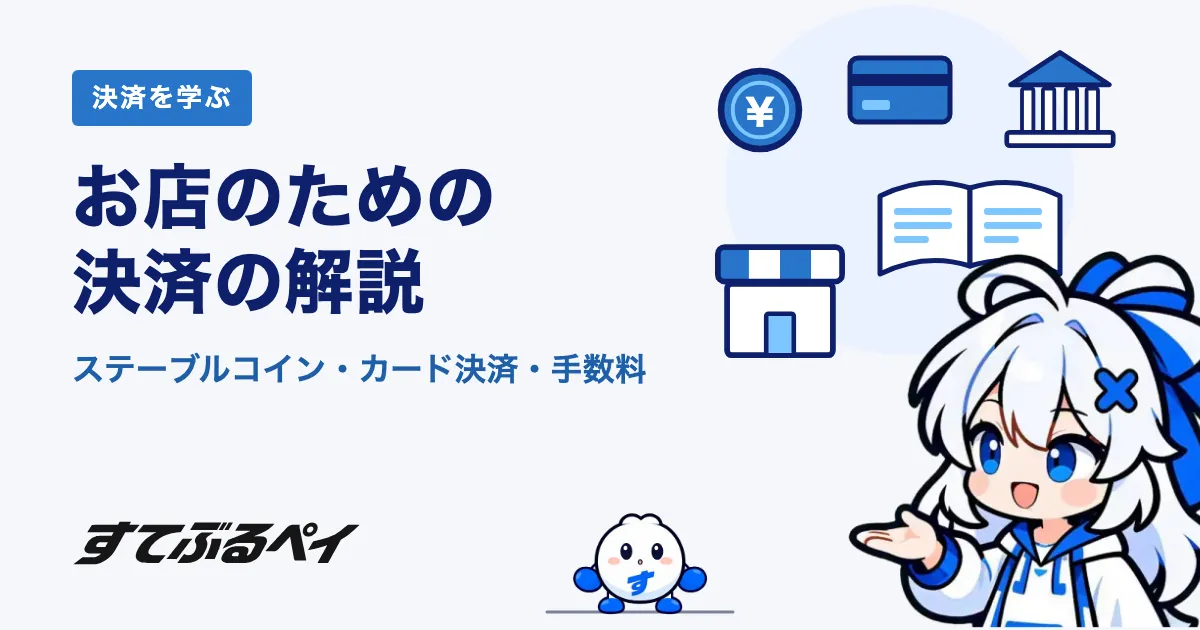
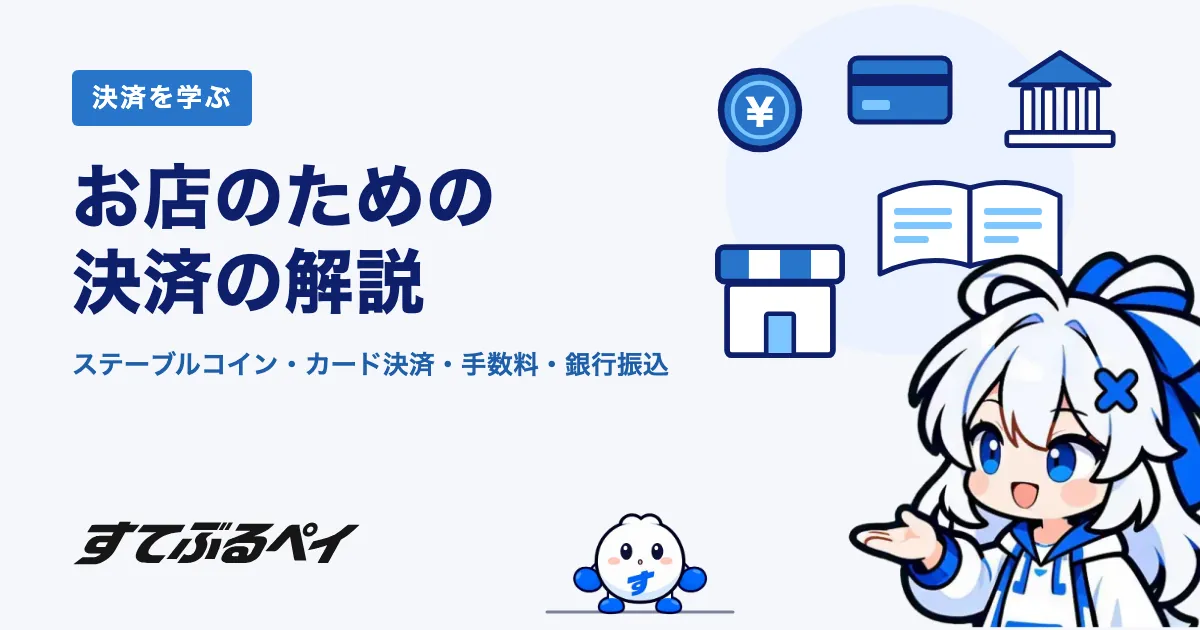
chore(learn): 群 D の題名変更をサムネイル・一覧・llms.txt にそろえ、sitemap の lastmod を 2026-11-11 にする
- サムネイル：入金消込とは？・入金消込は自動化できる？・銀行振込決済とは？・一覧の題名と副題を新しい h1 に合わせて書き出し直す
- 一覧のカードの h3・ItemList の name、llms.txt の題名を新しい h1 に。カードの説明と llms.txt の説明を各記事の冒頭に合わせる
- 用語集の ZEDI に「個人の振込で使えるかは確かめていません」を足す（表示と DefinedTerm の両方）
- online-payment-methods から /learn/reconciliation-automation/#virtual へ、payment-reconciliation の #shop から /learn/bank-transfer-payments/#confirm へのリンク
- research の Stripe の充て方を「未完了の PaymentIntent に確定日時の古い順」に
- sitemap.xml：変更した 17 ページの lastmod を 2026-11-11 に

Changed region(s): [[0.0617, 0.5429, 0.555, 0.6032]]

diff --git a/learn/index.html b/learn/index.html
@@ -81,9 +81,9 @@
         { "@type": "ListItem", "position": 10, "name": "クレカ・カード会社の表現規制はなぜ？理由と同人・成人向け作品の決済の備え", "url": "https://stbl-pay.com/learn/card-expression-restrictions/", "image": "https://stbl-pay.com/assets/learn/card-expression-restrictions/og.png" },
         { "@type": "ListItem", "position": 11, "name": "ネットショップの決済方法 9 種類を比較：選び方とおすすめの組み合わせ", "url": "https://stbl-pay.com/learn/online-payment-methods/", "image": "https://stbl-pay.com/assets/learn/online-payment-methods/og.png" },
         { "@type": "ListItem", "position": 12, "name": "決済手数料の比較と計算方法：総コストの計算ツール付き", "url": "https://stbl-pay.com/learn/payment-fees/", "image": "https://stbl-pay.com/assets/learn/payment-fees/og.png" },
-        { "@type": "ListItem", "position": 13, "name": "入金消込とは：やり方と、銀行振込で手間がかかる理由", "url": "https://stbl-pay.com/learn/payment-reconciliation/", "image": "https://stbl-pay.com/assets/learn/payment-reconciliation/og.png" },
-        { "@type": "ListItem", "position": 14, "name": "入金消込は自動化できる？：銀行 API・バーチャル口座でも残る手作業", "url": "https://stbl-pay.com/learn/reconciliation-automation/", "image": "https://stbl-pay.com/assets/learn/reconciliation-automation/og.png" },
-        { "@type": "ListItem", "position": 15, "name": "銀行振込決済とは：お店が銀行振込を受ける方法と、消込のいらない受け取り方", "url": "https://stbl-pay.com/learn/bank-transfer-payments/", "image": "https://stbl-pay.com/assets/learn/bank-transfer-payments/og.png" }
+        { "@type": "ListItem", "position": 13, "name": "入金消込とは？やり方と、銀行振込で大変な理由・減らす方法", "url": "https://stbl-pay.com/learn/payment-reconciliation/", "image": "https://stbl-pay.com/assets/learn/payment-reconciliation/og.png" },
+        { "@type": "ListItem", "position": 14, "name": "入金消込は自動化できる？銀行 API・バーチャル口座・AI 消込の範囲と例外", "url": "https://stbl-pay.com/learn/reconciliation-automation/", "image": "https://stbl-pay.com/assets/learn/reconciliation-automation/og.png" },
+        { "@type": "ListItem", "position": 15, "name": "銀行振込決済とは？決済代行・決済サービスで受ける方法と、消込のいらない受け取り方", "url": "https://stbl-pay.com/learn/bank-transfer-payments/", "image": "https://stbl-pay.com/assets/learn/bank-transfer-payments/og.png" }
       ]
     },
     {
@@ -256,22 +256,22 @@
               <li>
                 <a href="/learn/payment-reconciliation/">
                   <img class="learn-card-thumb" src="/assets/learn/payment-reconciliation/thumb.webp" width="1200" height="630" alt="" loading="lazy" decoding="async" />
-                  <h3>入金消込とは：やり方と、銀行振込で手間がかかる理由</h3>
+                  <h3>入金消込とは？やり方と、銀行振込で大変な理由・減らす方法</h3>
                   <p>入金消込とは、口座に入ったお金が、どの注文や請求の支払いかを突き合わせ、その注文や請求を入金済みにしていく作業です。</p>
                 </a>
               </li>
               <li>
                 <a href="/learn/reconciliation-automation/">
                   <img class="learn-card-thumb" src="/assets/learn/reconciliation-automation/thumb.webp" width="1200" height="630" alt="" loading="lazy" decoding="async" />
-                  <h3>入金消込は自動化できる？：銀行 API・バーチャル口座でも残る手作業</h3>
-                  <p>入金消込は、銀行 API で明細を自動で取り込み、取引先や注文ごとのバーチャル口座や、照合のルール・消込のシステムを組み合わせれば、多くの入金を自動で照合できます。</p>
+                  <h3>入金消込は自動化できる？銀行 API・バーチャル口座・AI 消込の範囲と例外</h3>
+                  <p>入金消込は、多くの部分を自動化できます。銀行 API で入金の明細を自動で取り込み、バーチャル口座で入金の相手を口座番号から特定し、照合のルールや入金消込システム（AI 消込を含む）で請求や注文と突き合わせます。</p>
                 </a>
               </li>
               <li>
                 <a href="/learn/bank-transfer-payments/">
                   <img class="learn-card-thumb" src="/assets/learn/bank-transfer-payments/thumb.webp" width="1200" height="630" alt="" loading="lazy" decoding="async" />
-                  <h3>銀行振込決済とは：お店が銀行振込を受ける方法と、消込のいらない受け取り方</h3>
-                  <p>銀行振込決済は、購入者が銀行振込で代金を払う決済方法です。お店の口座で受ける方法、決済代行・決済サービスを通す方法、注文ごとに支払いが届く方法を比べます。</p>
+                  <h3>銀行振込決済とは？決済代行・決済サービスで受ける方法と、消込のいらない受け取り方</h3>
+                  <p>銀行振込決済とは、ネットショップなどで、購入者が銀行振込で代金を払う決済方法です。お店の口座で受ける方法、決済代行・決済サービスを通す方法、注文ごとに支払いが届く方法を比べます。</p>
                 </a>
               </li>
             </ul>

diff --git a/learn/glossary/index.html b/learn/glossary/index.html
@@ -506,7 +506,7 @@
       "@type": "DefinedTerm",
       "@id": "https://stbl-pay.com/learn/glossary/#zedi",
       "name": "全銀 EDI システム（ZEDI）",
-      "description": "全銀 EDI システム（ZEDI）とは、振込に添える情報（EDI 情報）を増やす仕組みです。2018年12月25日に稼動を開始しました。支払通知番号や請求書番号などを添えられます。企業間の振込のための仕組みで、総合振込の際に使うフォーマットが対象です。ネットショップの購入者の振込に注文番号が付いて届く仕組みではありません。",
+      "description": "全銀 EDI システム（ZEDI）とは、振込に添える情報（EDI 情報）を増やす仕組みです。2018年12月25日に稼動を開始しました。支払通知番号や請求書番号などを添えられます。企業間の振込のための仕組みで、総合振込の際に使うフォーマットが対象です。ネットショップの購入者の振込に注文番号が付いて届く仕組みではありません。個人の振込で使えるかは確かめていません。",
       "alternateName": [
         "全銀 EDI",
         "全銀EDI",
@@ -711,7 +711,7 @@
             <h2 id="virtual-account">バーチャル口座（仮想口座・振込入金専用口座）とは</h2>
             <p>バーチャル口座とは、1 つの代表口座の下に、請求書や取引先、顧客ごとの専用の口座番号を作る仕組みです。仮想口座、振込入金専用口座とも呼ばれます<sup class="fn"><a href="#src-14">[14]</a><a href="#src-16">[16]</a></sup>。どの口座番号に振り込まれたかで請求書や取引先が分かるため、振込人名が請求と違うことによる照合のずれを減らせます<sup class="fn"><a href="#src-14">[14]</a></sup>。口座を分けても、振り込む額は購入者が決めるため、額が足りない入金や多い入金は起こりえます。Stripe は、こうした過払いや不足払いを顧客の残高に保持して照合します<sup class="fn"><a href="#src-16">[16]</a></sup>。詳しくは<a class="text-link" href="/learn/reconciliation-automation/#virtual">入金消込は自動化できる？</a>で解説しています。</p>
             <h2 id="zedi">全銀 EDI システム（ZEDI）とは</h2>
-            <p>全銀 EDI システム（ZEDI）とは、振込に添える情報（EDI 情報）を増やす仕組みです。2018年12月25日に稼動を開始しました<sup class="fn"><a href="#src-15">[15]</a></sup>。支払通知番号や請求書番号などを添えられます<sup class="fn"><a href="#src-15">[15]</a></sup>。企業間の振込のための仕組みで、総合振込の際に使うフォーマットが対象です<sup class="fn"><a href="#src-15">[15]</a></sup>。ネットショップの購入者の振込に注文番号が付いて届く仕組みではありません。詳しくは<a class="text-link" href="/learn/reconciliation-automation/#zedi">入金消込は自動化できる？</a>で解説しています。</p>
+            <p>全銀 EDI システム（ZEDI）とは、振込に添える情報（EDI 情報）を増やす仕組みです。2018年12月25日に稼動を開始しました<sup class="fn"><a href="#src-15">[15]</a></sup>。支払通知番号や請求書番号などを添えられます<sup class="fn"><a href="#src-15">[15]</a></sup>。企業間の振込のための仕組みで、総合振込の際に使うフォーマットが対象です<sup class="fn"><a href="#src-15">[15]</a></sup>。ネットショップの購入者の振込に注文番号が付いて届く仕組みではありません。個人の振込で使えるかは確かめていません。詳しくは<a class="text-link" href="/learn/reconciliation-automation/#zedi">入金消込は自動化できる？</a>で解説しています。</p>
             <h2 id="webhook">Webhook</h2>
             <p>Webhook とは、決済の結果など、できごとが起きたときに、サービスからお店のサーバーへ自動で届く通知です。お店は、通知を受け取って注文を支払い済みにします。同じ通知が 2 回以上届くことがあるため、重複を除く工夫が要ります。詳しくは<a class="text-link" href="/docs/webhooks/events/">イベントと受信（docs）</a>と<a class="text-link" href="/docs/webhooks/idempotency/">冪等性（docs）</a>にあります。</p>
             <h2 id="sandbox">Sandbox</h2>

diff --git a/learn/online-payment-methods/index.html b/learn/online-payment-methods/index.html
@@ -312,7 +312,7 @@
             <p>表の内容のうち、あとで困りやすい点を足します。出典は各項目の番号のとおりで、キャリア決済の項目だけは、提供元ではなく比較サイトの記事によります。</p>
             <ul>
               <li><strong>コンビニ払い。</strong>支払いには期限があります。Stripe では、1 回 120 円から 300,000 円までです。現金で払うため、元の支払い方法には返金できません。購入者の口座情報を聞いて、銀行振込で返金します<sup class="fn"><a href="#src-1">[1]</a></sup>。</li>
-              <li><strong>銀行振込。</strong>購入者が、多すぎる額や足りない額を振り込むことがあります。Stripe の銀行振込では、仮想口座の口座番号が、入金の自動の消し込みに使われます<sup class="fn"><a href="#src-2">[2]</a></sup>。過不足のある入金の扱いは、サービスによって違います。入金の照合（消込）の手間と減らし方は<a href="/learn/payment-reconciliation/">入金消込とは</a>で、自動化できる範囲は<a href="/learn/reconciliation-automation/">入金消込は自動化できる？</a>で、受け取り方の違いは<a href="/learn/bank-transfer-payments/">銀行振込決済とは</a>で解説しています。</li>
+              <li><strong>銀行振込。</strong>購入者が、多すぎる額や足りない額を振り込むことがあります。Stripe の銀行振込では、仮想口座の口座番号が、入金の自動の消し込みに使われます<sup class="fn"><a href="#src-2">[2]</a></sup>。仮想口座（バーチャル口座）で自動化できることと残ることは、<a href="/learn/reconciliation-automation/#virtual">入金消込は自動化できる？</a>で解説しています。過不足のある入金の扱いは、サービスによって違います。入金の照合（消込）の手間と減らし方は<a href="/learn/payment-reconciliation/">入金消込とは</a>で、自動化できる範囲は<a href="/learn/reconciliation-automation/">入金消込は自動化できる？</a>で、受け取り方の違いは<a href="/learn/bank-transfer-payments/">銀行振込決済とは</a>で解説しています。</li>
               <li><strong>QR コード・スマホ決済。</strong>Stripe の PayPay の返金は、即座に完了し、取り消せません。1 回の上限は 1,000,000 円です<sup class="fn"><a href="#src-3">[3]</a></sup>。</li>
               <li><strong>後払い。</strong>購入者の与信審査があります。通らなかった購入者には、別の方法を案内する必要があります<sup class="fn"><a href="#src-4">[4]</a></sup>。</li>
               <li><strong>代金引換。</strong>ヤマト運輸の宅急便コレクトでは、1 件の代金引換額が 55,000 円（税込）以上だと、印紙税相当額として 220 円（税込）がかかります。精算のときの振込手数料もかかります<sup class="fn"><a href="#src-5">[5]</a></sup>。</li>

diff --git a/learn/payment-reconciliation/index.html b/learn/payment-reconciliation/index.html
@@ -404,7 +404,7 @@
             <p>決済サービスの自動の入金確認でも、待ちが残ることがあります。BASE の銀行振込決済では、銀行の営業時間内の支払いは入金確認まで 2 時間前後、15 時以降や銀行の休業日の支払いは、翌営業日の午前中です<sup class="fn"><a href="#src-7">[7]</a></sup>。</p>
             <p>カートで手動の支払い方法を使うと、入金の確認はお店の作業です。Shopify では、支払いを受け取ったあとに、お店が注文を「支払い済み」にします<sup class="fn"><a href="#src-8">[8]</a></sup>。</p>
             <p>返金にも手順があります。銀行口座へ返金するには、購入者の口座の情報が要ります。Stripe では、振込のときに受け取った口座の情報を使い、無いときやあいまいなときは Stripe が購入者にメールで尋ねます<sup class="fn"><a href="#src-9">[9]</a></sup>。</p>
-            <p>なお、銀行振込は 24 時間 365 日で使えるようになりました。全銀システムのモアタイムシステムが、2018年10月から稼動しています<sup class="fn"><a href="#src-10">[10]</a></sup>。ただし、使えるかどうかは、銀行と時間帯によります。夜間や休日に振り込めても、お店が入金を確かめる作業は、人の時間に合わせて進みます。</p>
+            <p>なお、銀行振込は 24 時間 365 日で使えるようになりました。全銀システムのモアタイムシステムが、2018年10月から稼動しています<sup class="fn"><a href="#src-10">[10]</a></sup>。ただし、使えるかどうかは、銀行と時間帯によります。夜間や休日に振り込めても、お店が入金を確かめる作業は、人の時間に合わせて進みます。土日・夜間の入金確認は、<a href="/learn/bank-transfer-payments/#confirm">銀行振込の入金確認にかかる時間</a>で解説しています。</p>
 
             <h2 id="reduce">入金消込の手間を減らす 4 つの方法</h2>
             <p>入金消込の手間を減らす方法は、大きく 4 つあります。振込名義の前に番号を入れてもらう、表計算やソフトで照合する、注文ごとに振込先を分ける決済サービスに任せる、注文と支払いが最初から結びつく受け取り方を選ぶ、の 4 つです。</p>

diff --git a/marketing/research/reconciliation-bank-api.md b/marketing/research/reconciliation-bank-api.md
@@ -56,7 +56,7 @@
 - Stripe の過不足の扱い: 不足は「未払いの Payment Intent に部分的に資金を充当」するが「請求書に部分的に資金が充当されることはありません」（請求書は全額入るまで未払い）。過払いは「未払いの決済に対して入金された資金の照合を試行し、残りの超過額を顧客の残高に保持」。（検証：要注意 accept-a-payment の文言は 2026-11-10 確認。ただし reconciliation ページには「請求書の場合、部分支払いの自動消し込みが有効になっており、顧客が振込メモに請求書番号を含めている場合にのみ、入金された銀行振込が部分支払いとして充当されます」と、請求書の確定時に「設定された過少支払いのしきい値」を考慮する旨の記述もあり、「請求書には部分充当されない」は設定次第の例外がある。JPY の自動消込の手順には参照コード照合がないため、日本で請求書への部分充当が起きるかは未確認）
   出典: 同 accept-a-payment ページ「支払い不足と過払いを処理する」、https://docs.stripe.com/payments/customer-balance/reconciliation 「部分支払いと請求書の確定」
 - Stripe の JPY の自動消込の順序（日本円では参照番号ではなく、顧客の特定・金額・古さで当てる）:
-  【確認済み（delta-1）】顧客ごとの仮想口座で顧客を特定したうえで、顧客の現金残高と金額が一致する 1〜5 件の請求書・PaymentIntent の組み合わせを探す。無ければ、全額を充てられる請求書を確定日時の古い順に、残りを PaymentIntent の確認日時の古い順に充てる。表やまとめで「なければ古い順に充てる」だけに短縮しない（短縮するなら「決まった順序で充てる（詳しくは本文）」）。「請求書には一部だけ充てられることはない」は設定しだいの例外があるので書かない。（検証：2026-11-10 オーケストレーター確認）（検証：2026-11-10 確認。USD・EUR 等は先に参照コード／請求書番号で照合するが、JPY の手順には参照照合がない）
+  【確認済み（delta-1）】顧客ごとの仮想口座で顧客を特定したうえで、顧客の現金残高と金額が一致する 1〜5 件の請求書・PaymentIntent の組み合わせを探す。無ければ、全額を充てられる請求書を確定日時の古い順に、残りを未完了の PaymentIntent に確定日時の古い順に充てる。表やまとめで「なければ古い順に充てる」だけに短縮しない（短縮するなら「決まった順序で充てる（詳しくは本文）」）。「請求書には一部だけ充てられることはない」は設定しだいの例外があるので書かない。（検証：2026-11-10 オーケストレーター確認）（検証：2026-11-10 確認。USD・EUR 等は先に参照コード／請求書番号で照合するが、JPY の手順には参照照合がない）
   出典: https://docs.stripe.com/payments/customer-balance/reconciliation
 - Stripe の未消込資金: 「ご自身の責任で、顧客の現金残高が消し込まれていることをスピーディーかつ正確に確認する必要があります」。照合されない資金が 75 日を超えて残ると、顧客の銀行口座への返金を自動で試み（口座閉鎖などで失敗することがある）、90 日を過ぎても残っていれば Stripe の残高に移す（返金の再試行ではない）。Stripe が顧客の口座情報を持っていない場合、顧客に直接「連絡することがあります」。銀行振込による支払いは「USD および CAD での取引を除き、取り消すことはできません」（この「取り消せない」は、購入者の申し立てによる取り消し、カードのチャージバックにあたるものの話で、お店からの返金はできる。同ページは全額・部分返金を認める。返金ができないように読める書き方をしない）。（検証：2026-11-10 確認。「連絡する」を原文どおり「連絡することがある」に。取り消し不可の記述は reconciliation ページではなく bank-transfers ページ https://docs.stripe.com/payments/bank-transfers 。同ページの機能表は不審請求の申し立てを「USD 取引のみ」としており本文と食い違う）
   出典: 同 reconciliation ページ、bank-transfers ページ
